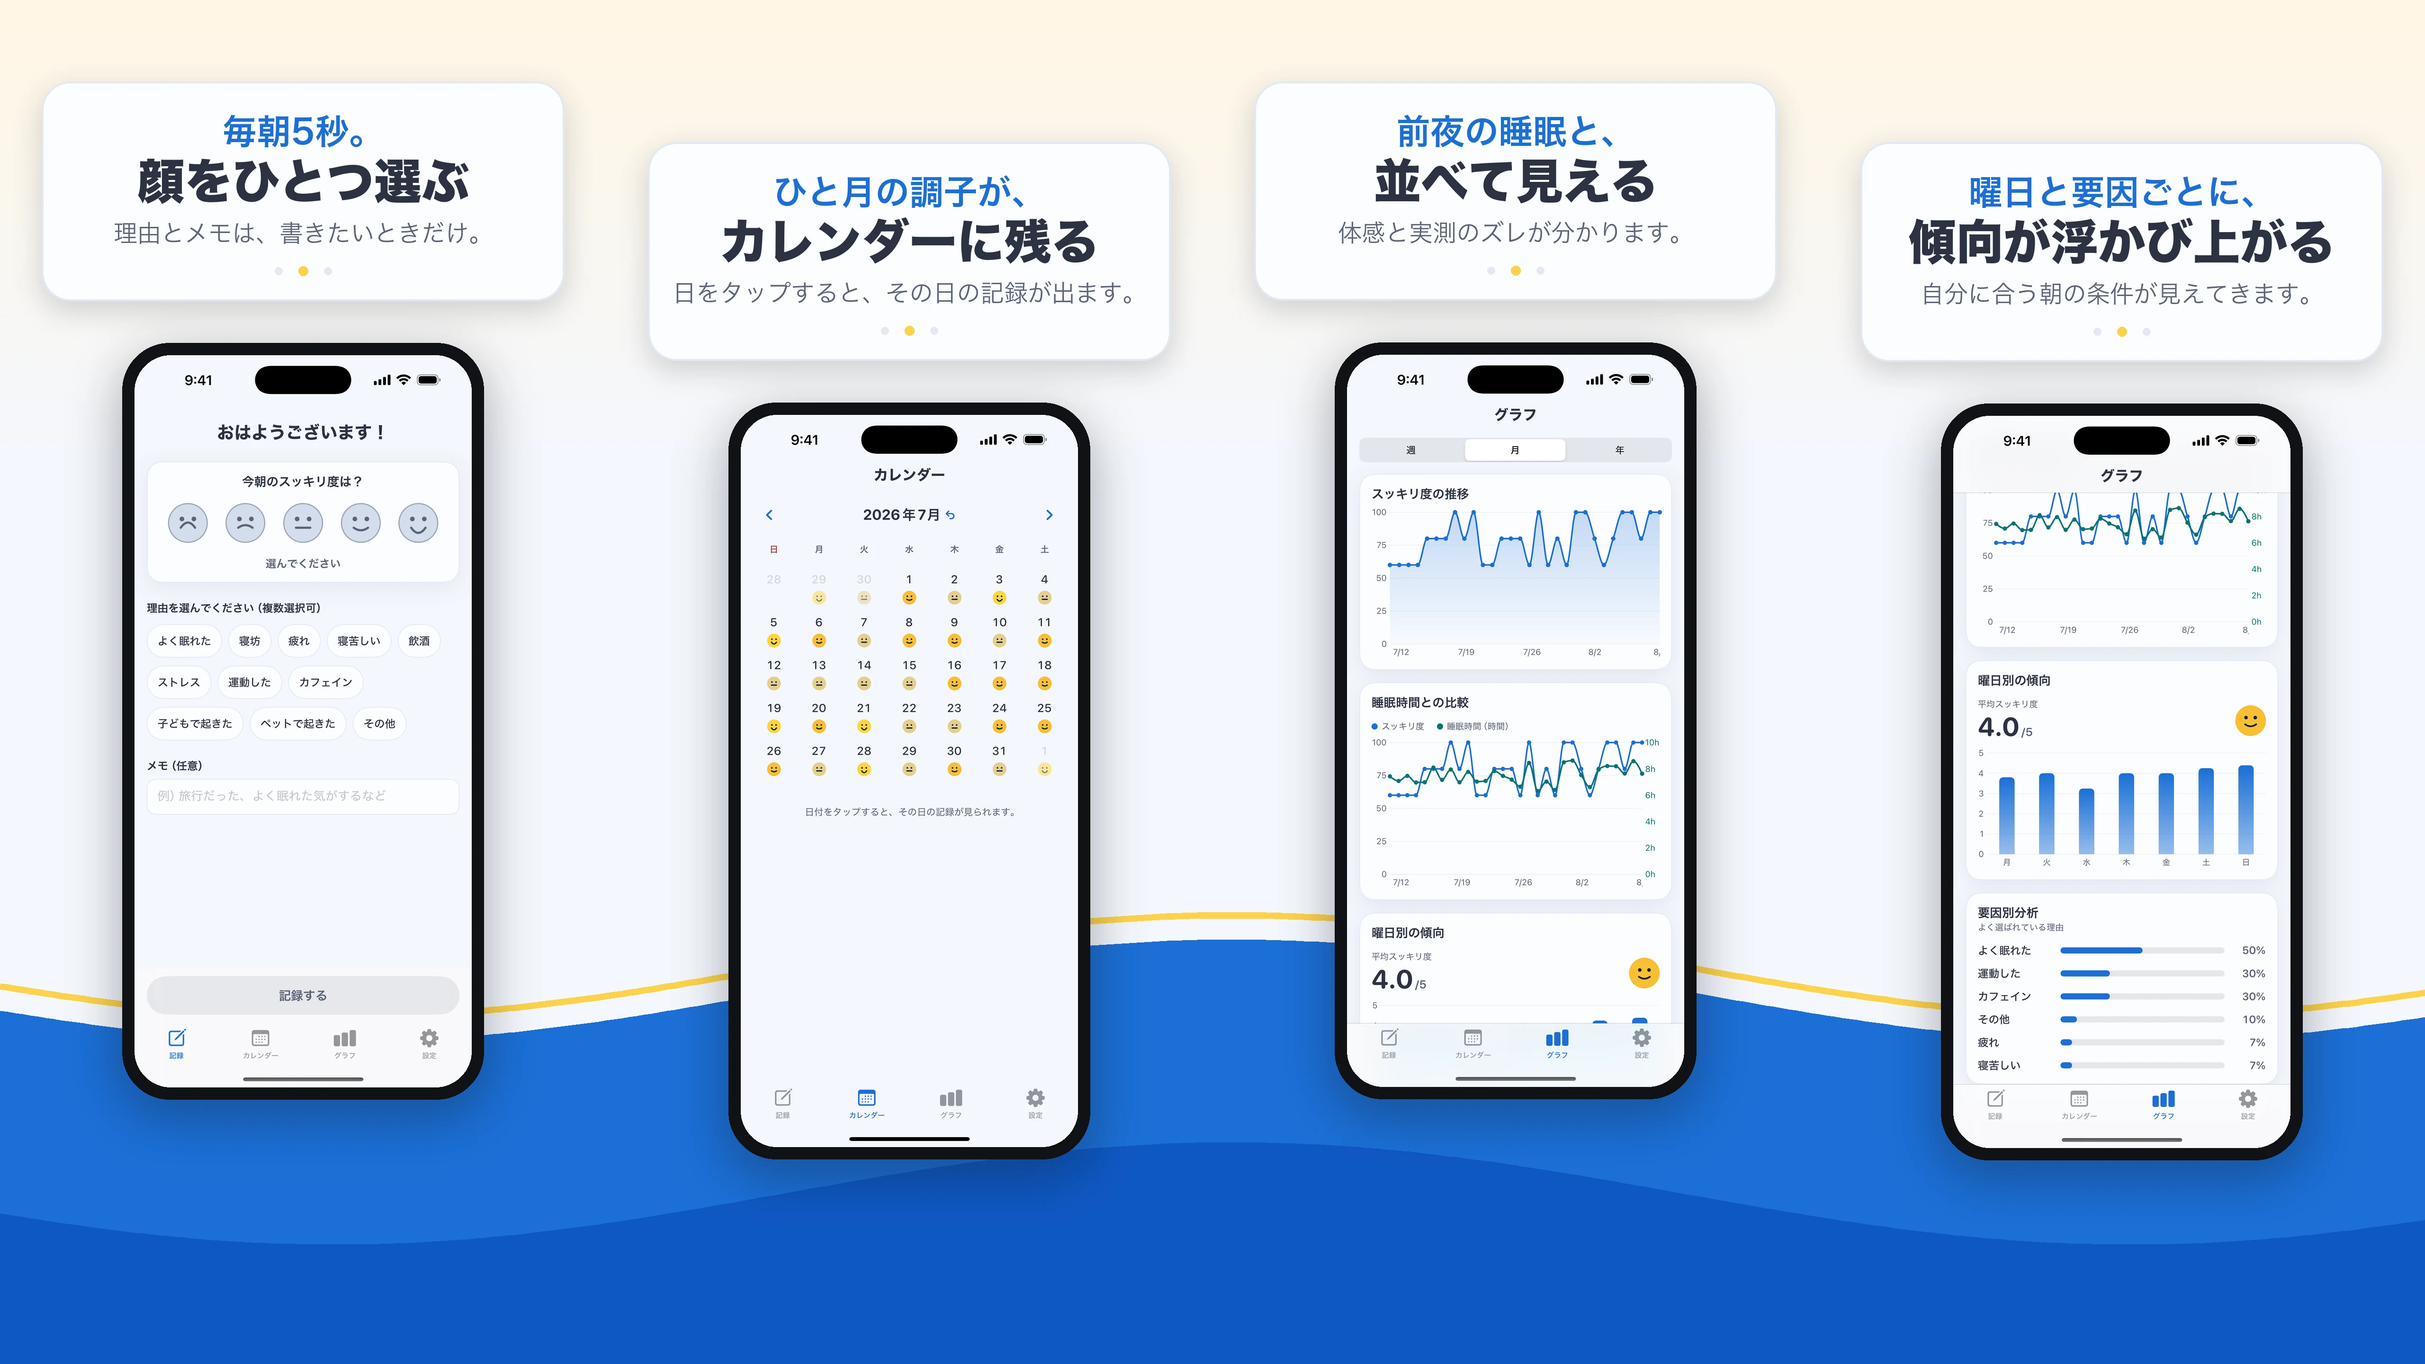
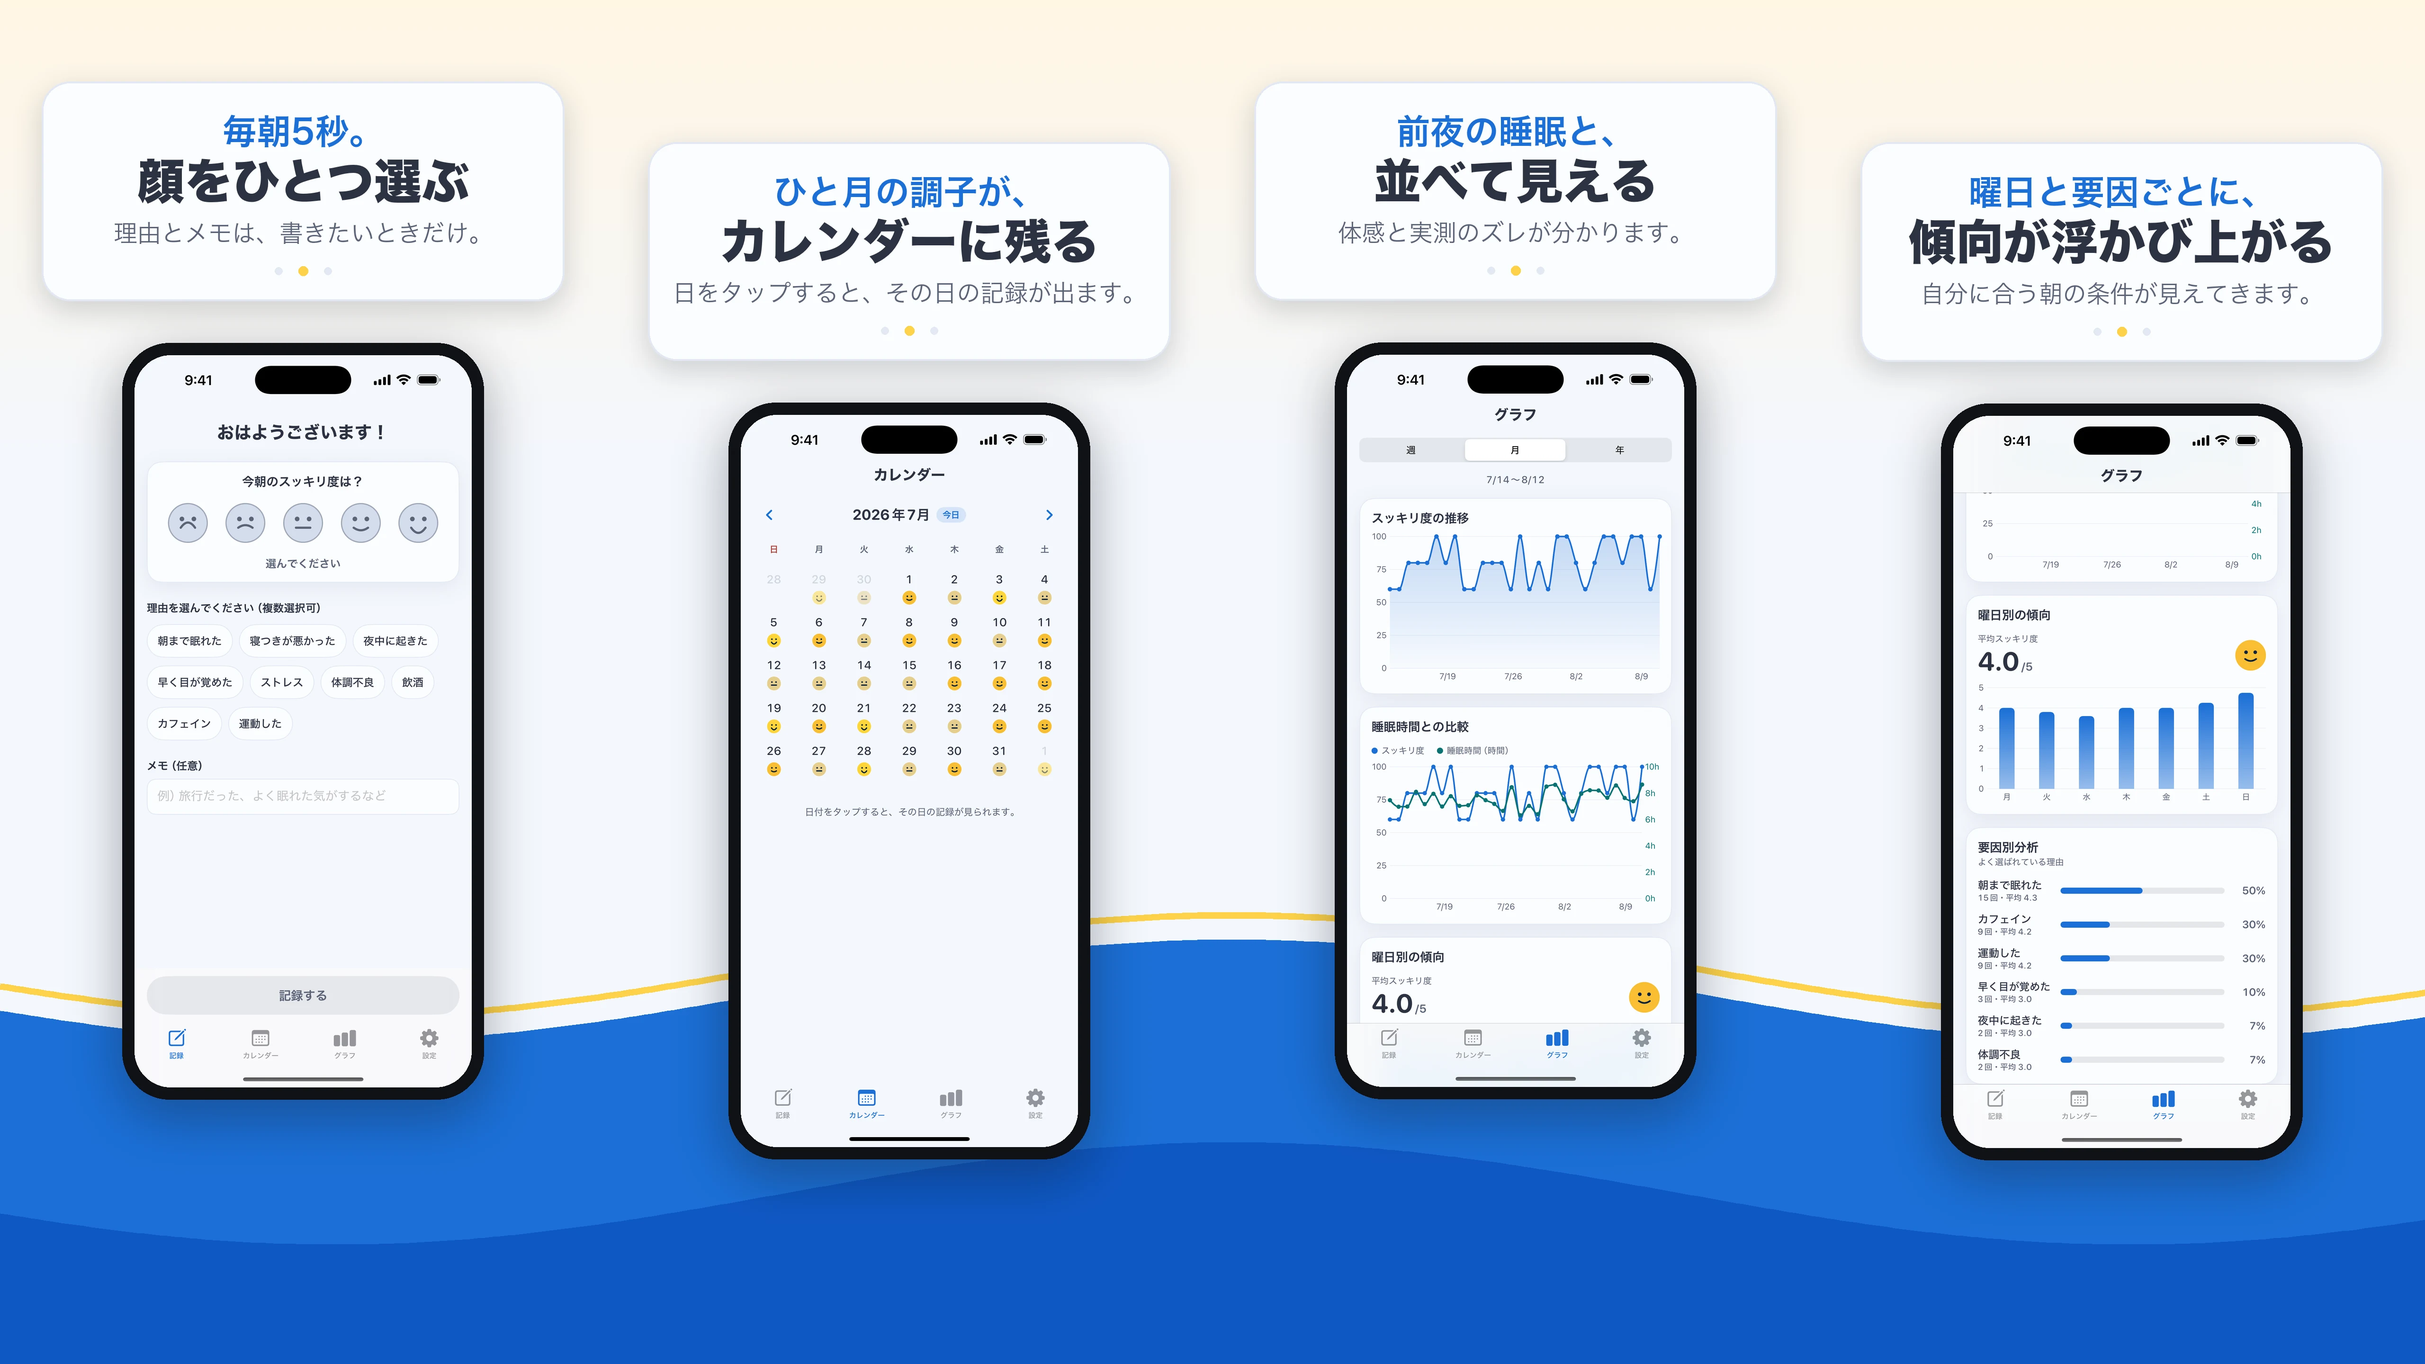
fix(asalog): サポートページを記録の導線変更に合わせる (#104)
* fix(asalog): サポートページを記録の導線変更に合わせる

朝ログで詳細記録シートを廃し、カレンダーの日をたたくと**直接入力画面**が出るようにした
（1タップ減）。それに伴い失効した記述を直す。

- 日英とも「下に出るカードから『記録を追加』を選んで」→「下に出るカードをタップすると
  入力画面が開きます」。`WarmEmptyState` の「記録を追加」ボタンの一段が無くなった
- 無料の一覧に「理由の追加・削除・並べ替え」を足した。理由のカスタマイズは**無料**だが、
  Pro の一覧の直後に無料の一覧が来る構成なので、書いていないと Pro だと誤読されうる

⚠ 存続を確認した記述（直していない）:
- 「日付をタップすると…下に出ます」= サマリーカードは変えていないので真
- 「過去日の追記・編集・削除」= 削除は編集画面の最下部に移ったが、できること自体は変わらない

⚠ **LP の合成画像（4画面）は未確認。** ①記録ペインに旧11チップが写っている可能性があるので、
画像の作り直しは別途（house convention どおり codex に @1x/@2x の対で作らせる）。

🤖 Generated with [Claude Code](https://claude.com/claude-code)

https://claude.ai/code/session_019ct3yZqDSCAsPweYGXZ2r3

* fix(asalog): 4画面の紹介画像を撮り直し、プライバシーポリシーの失効を直す

## 画像（日英 × @1x/@2x の4本）
朝ログの 2026-08-12 のバッチ（理由9個＋CRUD・詳細記録の廃止・今日バッジ・期間見出し・
要因別に平均）で**中身が実装と食い違っていた**ので撮り直した。直った点:

| パネル | 前 | 後 |
|---|---|---|
| ①記録 | 旧11チップ（よく眠れた／寝坊／その他 等） | 新9チップ（朝まで眠れた／寝つきが悪かった 等） |
| ②カレンダー | ヘッダに `↺` アイコン | 「今日」バッジ |
| ③月グラフ | 期間見出しなし | 「7/14〜8/12」 |
| ④要因別分析 | 旧理由・回数と平均なし | 新理由＋「15回・平均4.3」 |

意匠は `shots/make_lp_image.py` が持っているので寸法・配置は変えていない（パネル境界も不変）。

## プライバシーポリシー
`privacy.html` §Apple Health が「用途は…グラフでの比較と、**その日の記録の詳細表示**——だけです」と
書いていたが、**その画面は廃止した**し、睡眠時間はそこに出ていなかった。
→「グラフでの比較と、**カレンダーで選んだ日のサマリー表示**」に日英とも直した。

🤖 Generated with [Claude Code](https://claude.com/claude-code)

https://claude.ai/code/session_019ct3yZqDSCAsPweYGXZ2r3

diff --git a/asalog/support.html b/asalog/support.html
@@ -69,7 +69,7 @@
   <p><strong>設定 &gt; データ &gt; サンプルデータを追加</strong> から、直近2週間ぶんの見本を入れて全画面をお試しいただけます。サンプルデータは同じ画面から、手入力した記録を残したまま削除できます。</p>
 
   <h3>昨日の記録を忘れました。後から書けますか</h3>
-  <p>書けます。「カレンダー」タブでその日をタップし、下に出るカードから「記録を追加」を選んでください。後から埋めた日もグラフに反映されます。これからの日付には記録できません。</p>
+  <p>書けます。「カレンダー」タブでその日をタップし、下に出るカードをタップすると入力画面が開きます。後から埋めた日もグラフに反映されます。これからの日付には記録できません。</p>
 
   <h3>1日に2回記録できますか</h3>
   <p>1日1件です。同じ日にもう一度記録すると、前の内容を上書きします。「今朝の目覚め」は1日にひとつなので、複数を持たせると平均や傾向の計算が崩れるためです。</p>
@@ -106,7 +106,7 @@
     <li><strong>好きなアプリアイコンに変更</strong> — 同じ <strong>設定 &gt; テーマ</strong> の、配色のすぐ下にある見本からホーム画面のアイコンを選べます（こちらも既定の「朝の海」は無料で選べます）</li>
     <li><strong>記録をファイルにバックアップ</strong> — JSON形式で書き出し（読み込みは無料）</li>
   </ul>
-  <p>それ以外――毎朝の記録、過去日の追記・編集・削除、カレンダーの全期間閲覧、グラフの「週」「月」（4つのカードすべて）、外観の切り替え（自動・ライト・ダーク）、リマインダー、Apple Health 連携と前夜の睡眠の自動取得、直近30日ぶんの一括取り込み、JSONの読み込み、サンプルデータ――は、すべて無料でお使いいただけます。<strong>記録できる件数や日数に上限はありません。</strong></p>
+  <p>それ以外――毎朝の記録、過去日の追記・編集・削除、カレンダーの全期間閲覧、グラフの「週」「月」（4つのカードすべて）、理由の追加・削除・並べ替え、外観の切り替え（自動・ライト・ダーク）、リマインダー、Apple Health 連携と前夜の睡眠の自動取得、直近30日ぶんの一括取り込み、JSONの読み込み、サンプルデータ――は、すべて無料でお使いいただけます。<strong>記録できる件数や日数に上限はありません。</strong></p>
 
   <h3>無料でも「年」のグラフは見られますか</h3>
   <p>「年」を選ぶと、直近30日ぶんの推移は実際のデータで表示され、その手前の期間はぼかした状態で見えます。記録が月をまたいで2か月ぶん以上たまっていれば、<strong>ぼかしの下にあるのはご自身の記録です</strong>。まだそこまでたまっていないときは、ぼかしの下も「記録がたまるとここに1年の流れが出ます」という案内で、隠している記録はありません。「週」と「月」は、これまでどおり4つのカードすべてがお使いいただけます。</p>

diff --git a/asalog/en/support.html b/asalog/en/support.html
@@ -69,7 +69,7 @@
   <p>Go to <strong>Settings &gt; Data &gt; Add sample data</strong> to fill in two weeks of examples and look around every screen. You can remove the sample data from the same place, and your own logs stay.</p>
 
   <h3>I forgot to log yesterday. Can I add it later?</h3>
-  <p>Yes. Tap that date in the <strong>Calendar</strong> tab and choose "Add a log" from the card below. Days you fill in later count in the charts too. Future dates cannot be logged.</p>
+  <p>Yes. Tap that date in the <strong>Calendar</strong> tab, then tap the card below to open the entry screen. Days you fill in later count in the charts too. Future dates cannot be logged.</p>
 
   <h3>Can I log twice in one day?</h3>
   <p>One entry per day. Logging again on the same day replaces the previous entry. There is only one "how you woke up" per morning, and allowing several would break the averages and patterns.</p>
@@ -106,7 +106,7 @@
     <li><strong>Change to any app icon you like</strong> — pick your Home Screen icon from the same five, just below the color swatches in <strong>Settings &gt; Theme</strong> (here too, the default, Sea, is free)</li>
     <li><strong>Back up your logs to a file</strong> — export as JSON (importing is free)</li>
   </ul>
-  <p>Everything else — logging each morning, adding, editing and deleting past days, viewing the whole calendar, the "Week" and "Month" charts (all four cards), the appearance switch (Auto, Light, or Dark), reminders, the Apple Health connection and automatic reading of last night's sleep, filling in the last 30 days in bulk, importing logs from a JSON file, and the sample data — is free. <strong>There is no limit on how many days you can log.</strong></p>
+  <p>Everything else — logging each morning, adding, editing and deleting past days, viewing the whole calendar, the "Week" and "Month" charts (all four cards), adding, removing and reordering reasons, the appearance switch (Auto, Light, or Dark), reminders, the Apple Health connection and automatic reading of last night's sleep, filling in the last 30 days in bulk, importing logs from a JSON file, and the sample data — is free. <strong>There is no limit on how many days you can log.</strong></p>
 
   <h3>Can I see the "Year" chart on the free plan?</h3>
   <p>When you select "Year", the last 30 days are drawn with your real data and the period before it appears blurred. Once your logs span two months or more, <strong>what is blurred is your own data</strong>. Before that, what is blurred is a note saying a year of your trend will appear as your logs build up — there are no logs hidden behind it. "Week" and "Month" keep working in full, all four cards.</p>

diff --git a/asalog/privacy.html b/asalog/privacy.html
@@ -70,7 +70,7 @@
   <p>本アプリの有料機能（朝ログ Pro）の購入・復元は Apple の App Store を通じて行われ、購入・サブスクリプションの有効状態の管理に課金基盤サービス「RevenueCat」を利用します。これにより、購入状態などの情報が RevenueCat で処理されます。クレジットカード番号などのお支払い情報は Apple が取り扱い、当方は受け取りません。購入の管理は匿名の識別子で行い、氏名・メールアドレスなどの個人情報とは結び付けていません。なお、RevenueCat は米国の事業者が提供するサービスです。</p>
 
   <h2>5. Apple Health（睡眠時間）について</h2>
-  <p>本アプリは、利用者が設定で連携をオンにし、かつ端末の「ヘルスケア」で許可した場合に限り、Apple Health から<strong>睡眠時間のデータを読み取ります</strong>。読み取り専用で、Apple Health への書き込みは一切行いません。用途は、読み取った睡眠時間を目覚めの記録と組み合わせて表示すること——グラフでの比較と、その日の記録の詳細表示——だけです。</p>
+  <p>本アプリは、利用者が設定で連携をオンにし、かつ端末の「ヘルスケア」で許可した場合に限り、Apple Health から<strong>睡眠時間のデータを読み取ります</strong>。読み取り専用で、Apple Health への書き込みは一切行いません。用途は、読み取った睡眠時間を目覚めの記録と組み合わせて表示すること——グラフでの比較と、カレンダーで選んだ日のサマリー表示——だけです。</p>
   <p>読み取った睡眠時間は、記録の一部として利用者の端末内にのみ保存されます。当方や第三者のサーバーに送信することはなく、<strong>広告・マーケティングの目的で利用することも、第三者に提供・販売することもありません。</strong>また、第3項の利用状況の計測にも含めません。許可は端末の「設定 &gt; プライバシーとセキュリティ &gt; ヘルスケア」または「ヘルスケア」アプリからいつでも変更でき、本アプリの設定で連携をオフにすることもできます。</p>
 
   <h2>6. データのバックアップ</h2>

diff --git a/asalog/en/privacy.html b/asalog/en/privacy.html
@@ -70,7 +70,7 @@
   <p>Purchases and restores of the App's paid features (AsaLog Pro) are handled through Apple's App Store, and we use the subscription infrastructure service RevenueCat to manage purchases and entitlement status. Information such as your purchase status is therefore processed by RevenueCat. Payment details such as credit card numbers are handled by Apple and are never received by us. Purchases are managed under an anonymous identifier and are not linked to personal information such as your name or email address. Please note that RevenueCat is a service provided by a company based in the United States.</p>
 
   <h2>5. Apple Health (sleep)</h2>
-  <p>Only if you turn the connection on in the App's settings and grant permission in the device's Health app, the App <strong>reads sleep data from Apple Health</strong>. It is read-only; the App never writes anything back to Apple Health. It is used for one purpose: showing the sleep it reads alongside your morning logs — compared in a chart, and on that day's log detail.</p>
+  <p>Only if you turn the connection on in the App's settings and grant permission in the device's Health app, the App <strong>reads sleep data from Apple Health</strong>. It is read-only; the App never writes anything back to Apple Health. It is used for one purpose: showing the sleep it reads alongside your morning logs — compared in a chart, and on the summary for the day you select in the calendar.</p>
   <p>The sleep figures that are read are stored on your device only, as part of your logs. They are never transmitted to servers operated by us or by third parties, and they are <strong>never used for advertising or marketing purposes, nor provided or sold to third parties.</strong> They are also excluded from the usage measurement in section 3. You can change the permission at any time in Settings &gt; Privacy &amp; Security &gt; Health, or in the Health app, and you can turn the connection off in the App's settings.</p>
 
   <h2>6. Data backup</h2>
